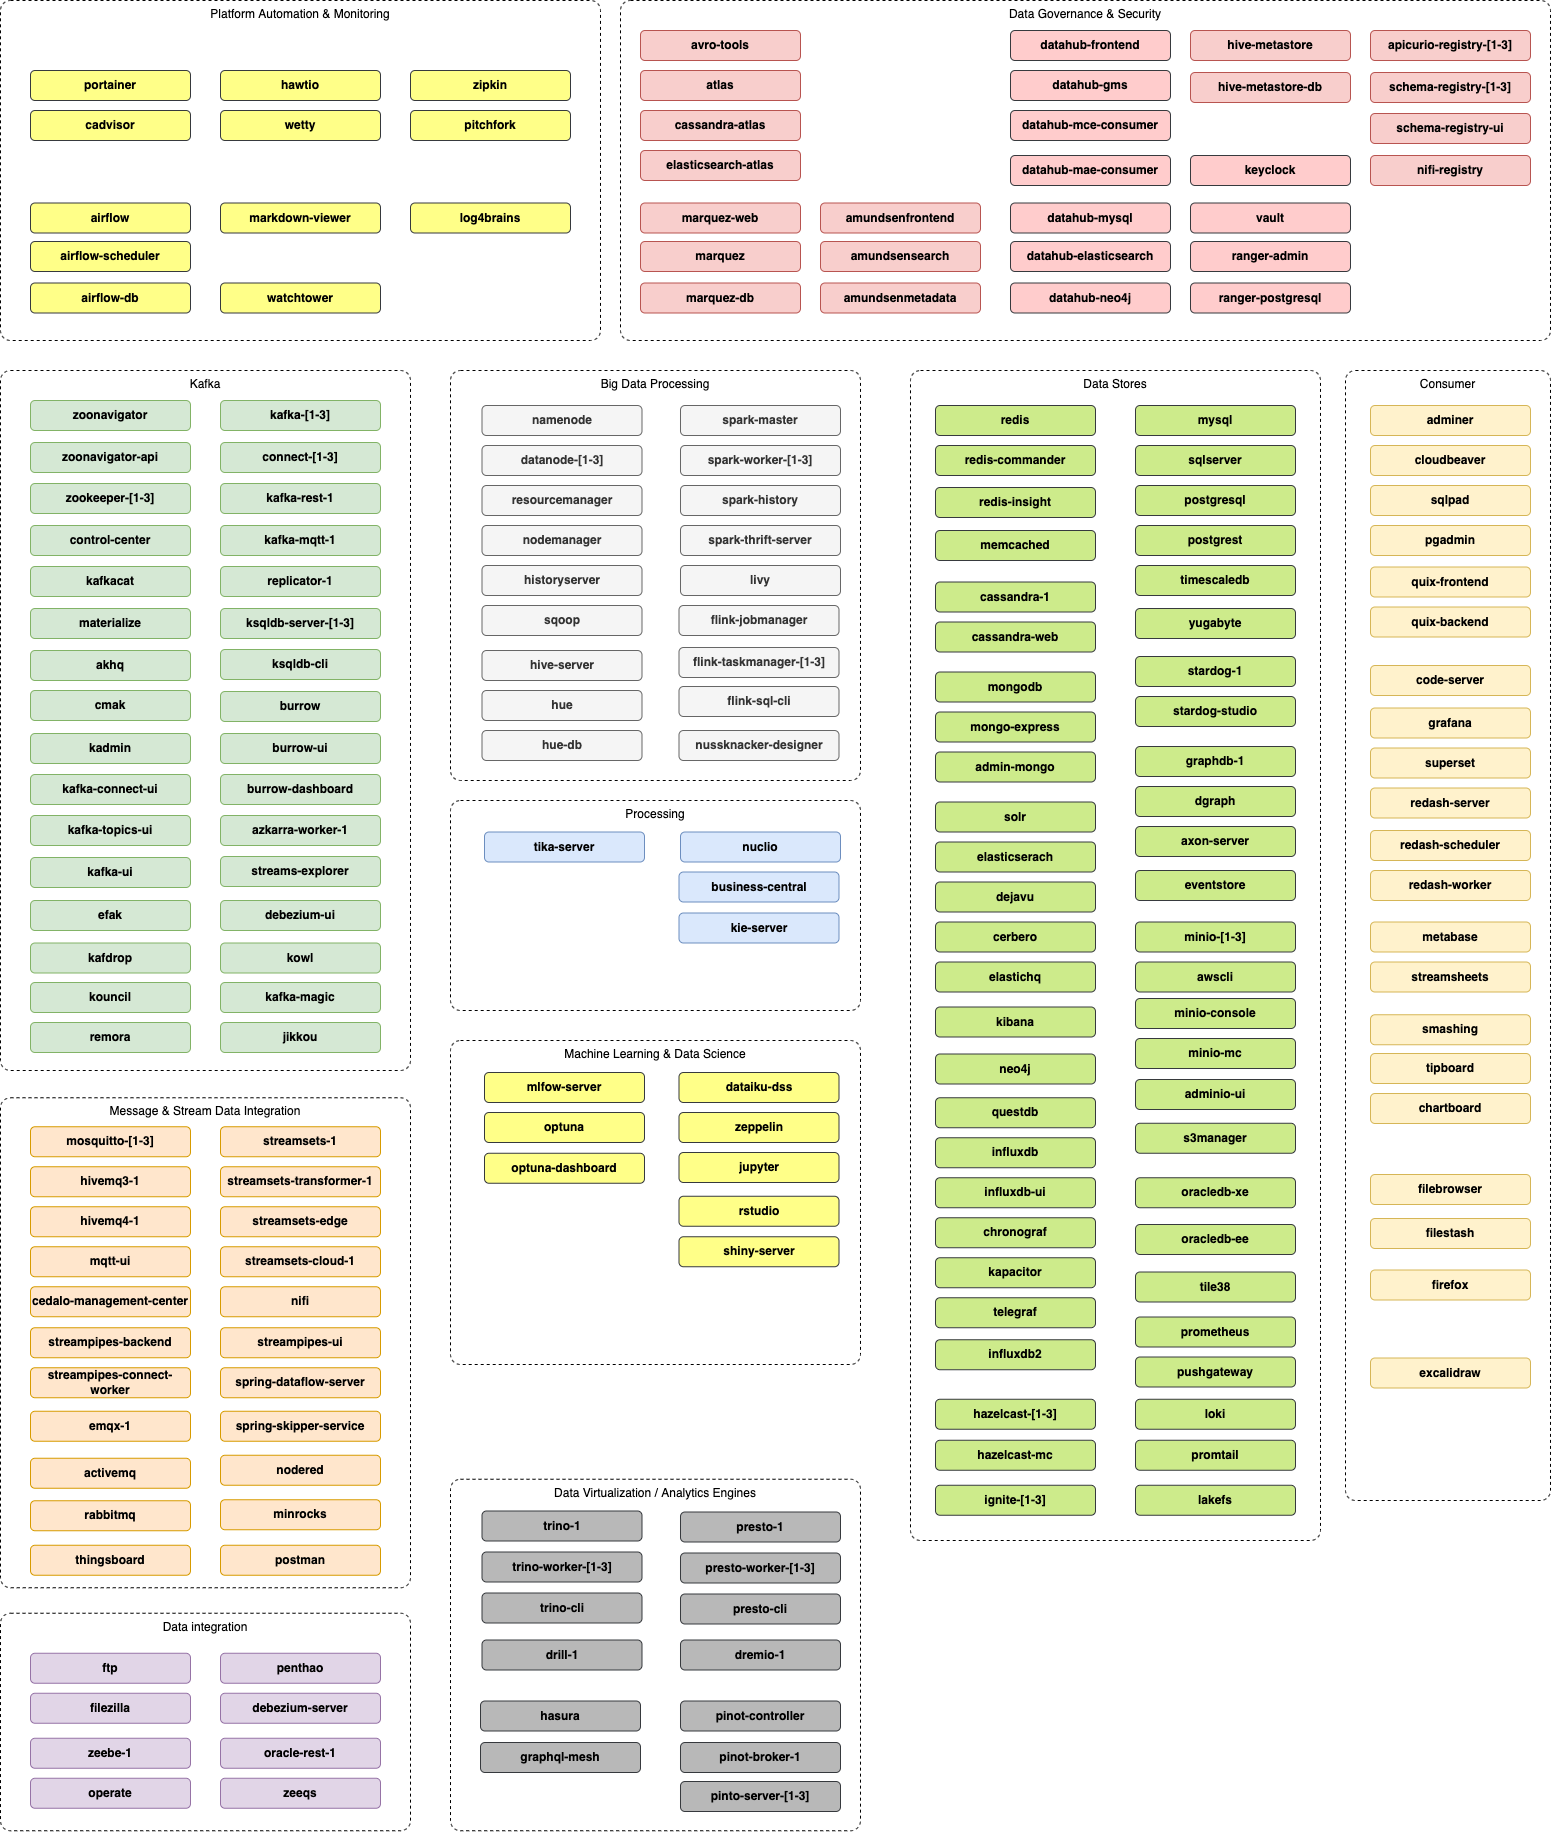
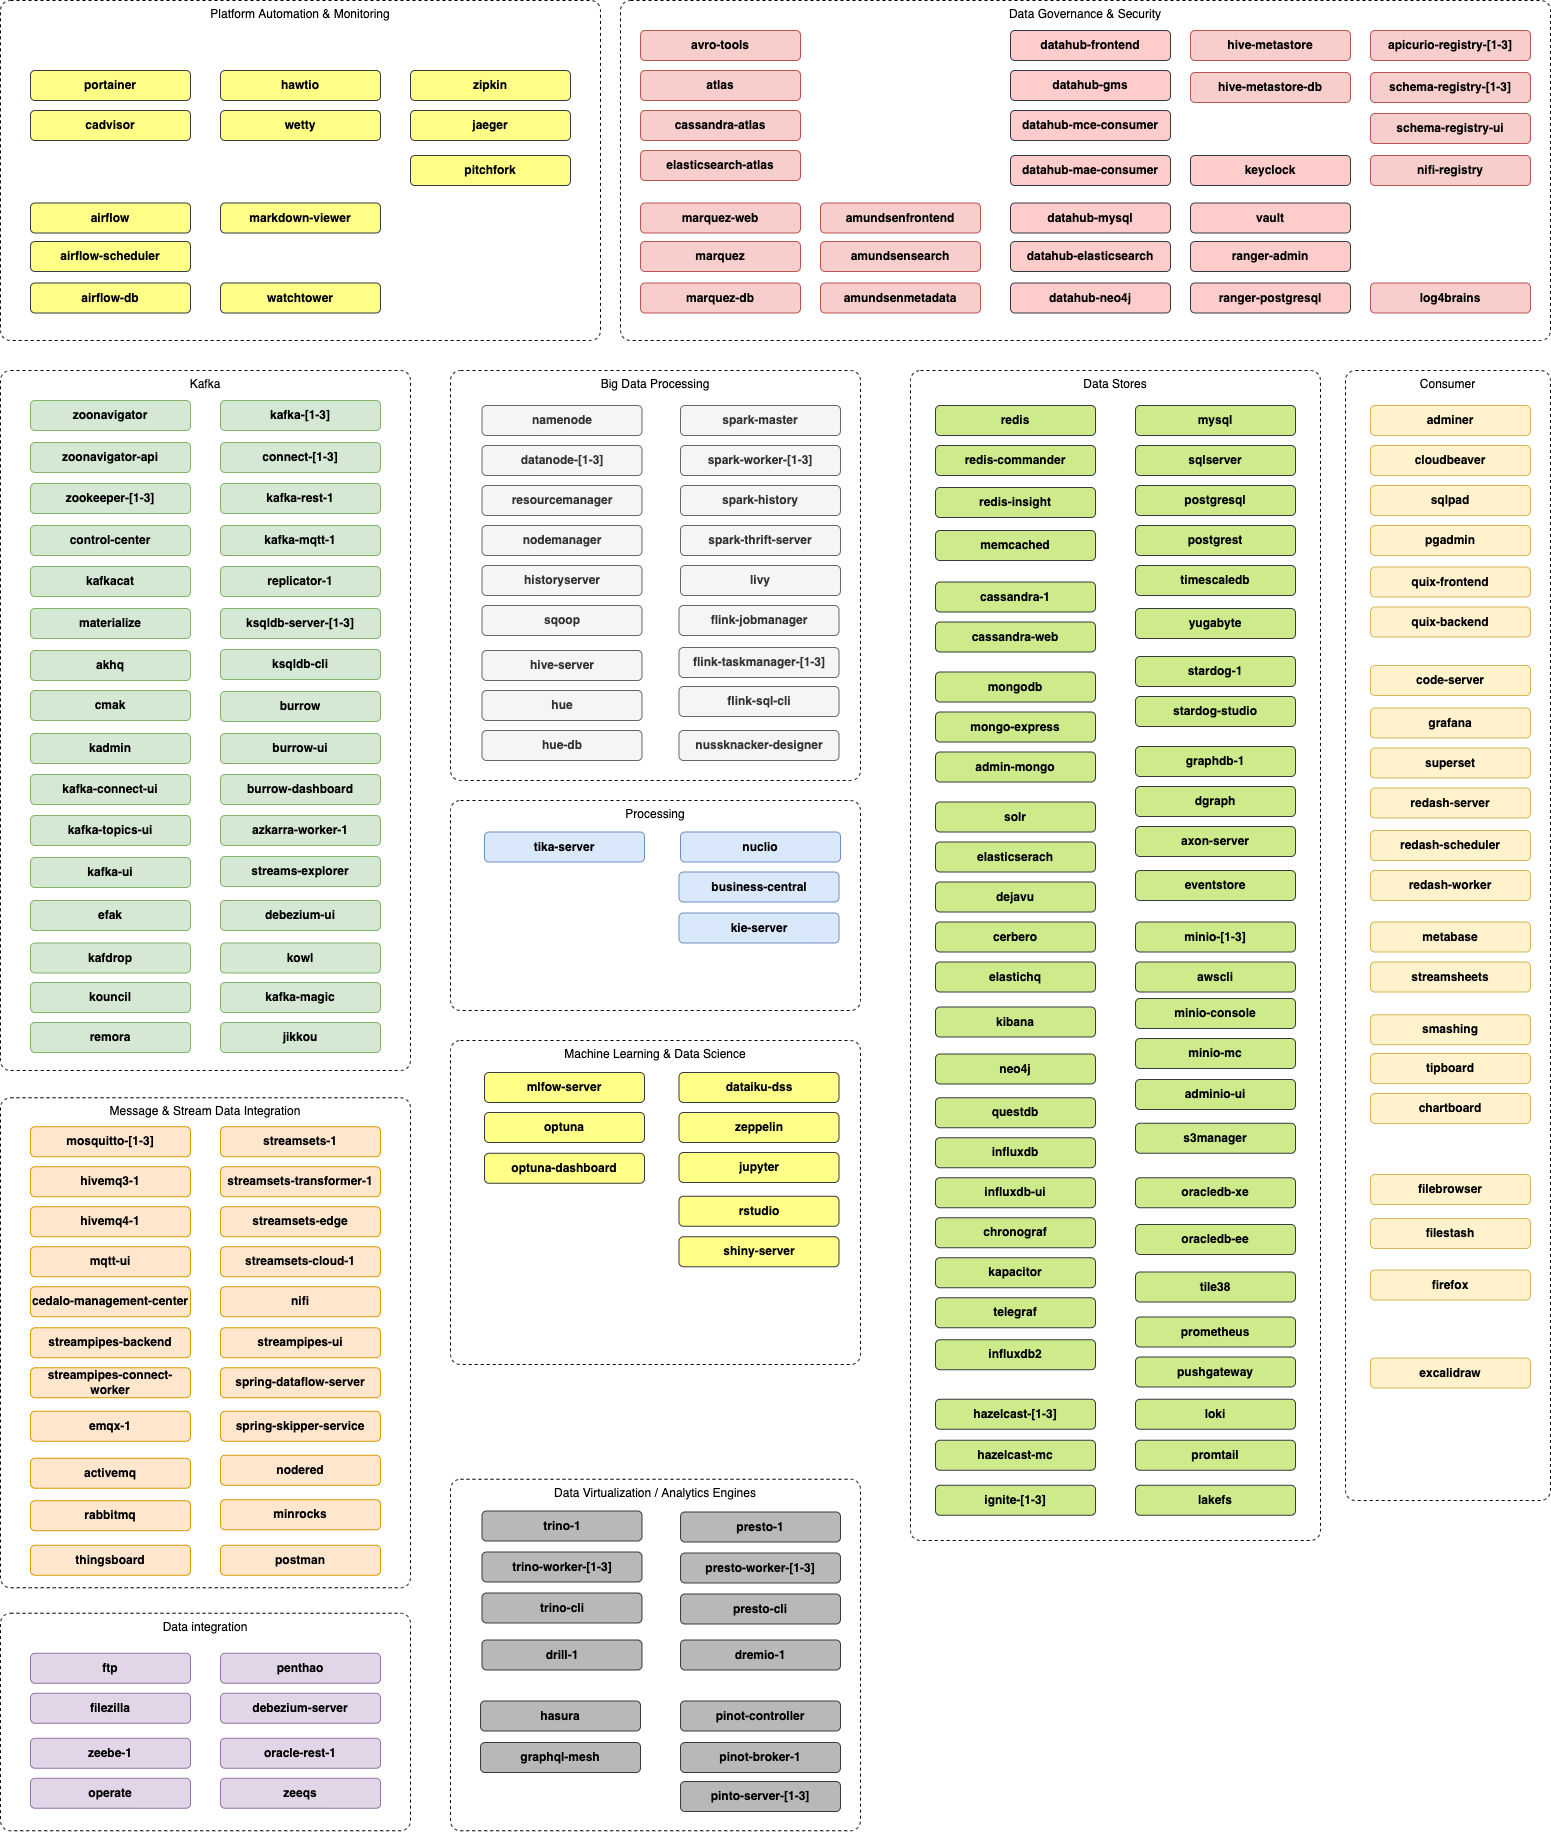
add documentation: #440

Changed region(s): [[0.2476, 0.0622, 0.3714, 0.1556], [0.8665, 0.1556, 0.9903, 0.1867]]

diff --git a/documentation/configuration.md b/documentation/configuration.md
@@ -684,6 +684,7 @@ For each service there might be some other settings, such as controlling the num
 | `ZIPKIN_debug`                             	| `false` 	| 1.13.0 	| Enable debug logging                                                                                                                               	|
 | [**_Jaeger_**](./services/jaeger.md)   &nbsp;&nbsp;&nbsp;&nbsp;![x86-64](./images/x86-64.png)                     	|         	|       	|                                                                                                                                                                                     	|        
 | `JAEGER_enable`                             	| `false` 	| 1.14.0 	| Generate Jaeger service                                                                                                                                             	|
+| `JAEGER_zipkin_port`                             	| `false` 	| 1.14.0 	| Exposes Zipkin compatible REST API on this port.                                                                                                                                          	|
 | [**_Pitchfork_**](./services/pitchfork.md)   &nbsp;&nbsp;&nbsp;&nbsp;![x86-64](./images/x86-64.png)                     	|         	|       	|                                                                                                                                                                                     	|        
 | `PITCHFORK_enable`                             	| `false` 	| 1.14.0 	| Generate Pitchfork service.                                                                                                                                             	|
 | `PITCHFORK_server_port`                             	| `9413` 	| 1.14.0 	| HTTP port where Pitchfork is listening.                                                                                                                                     	|
